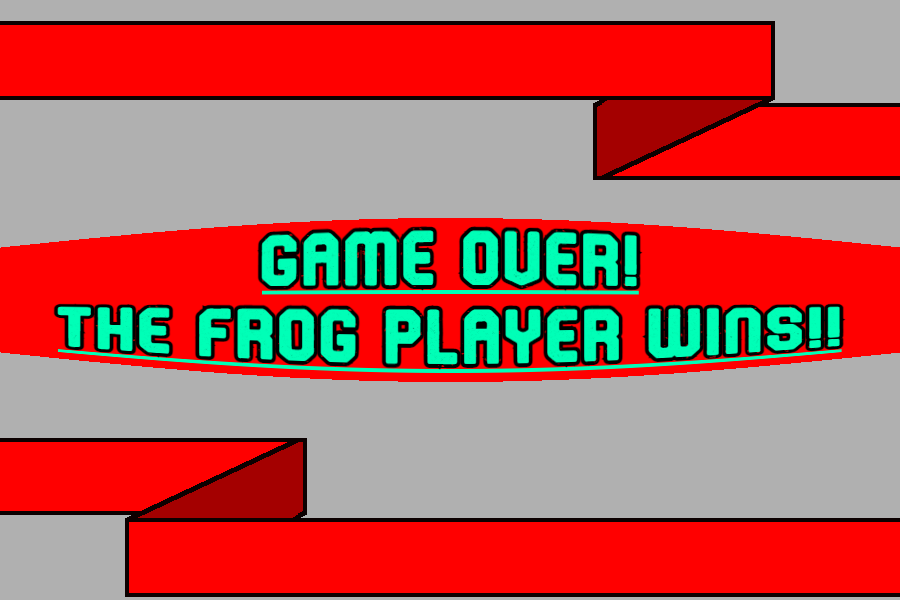
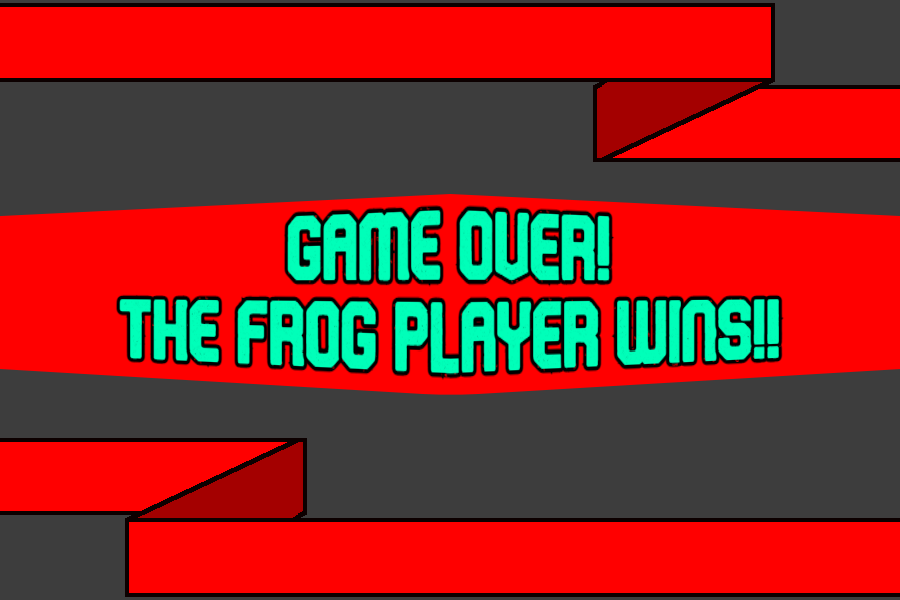
new tetris win screen

diff --git a/final/systems/game_flow.py b/final/systems/game_flow.py
@@ -25,7 +25,7 @@ class GameFlow(system.System):
             if self.game_status.winner == status.Winner.FROG:
                 self.surface.blit(pygame.image.load("assets/frog_win.png"), (0, 0))
             else:
-                self.surface.blit(pygame.image.load("assets/frog_win.png"), (0, 0))
+                self.surface.blit(pygame.image.load("assets/tetris_win.png"), (0, 0))
             # pygame.draw.rect(self.surface, (255, 255, 255),
             #                  pygame.Rect(0, CELL_HEIGHT * 4, 900, CELL_HEIGHT * 4))
 
